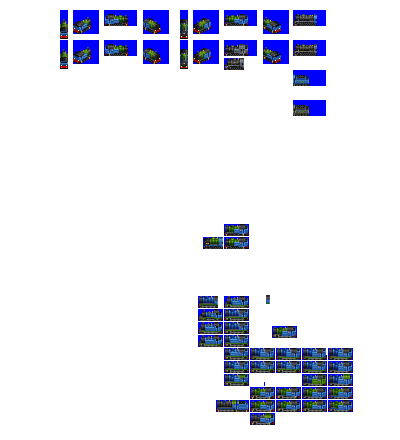
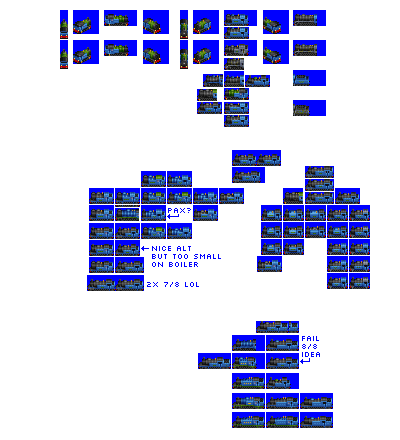
Change: WIP on Yak sprites and stats

diff --git a/src/vehicles/yak.py b/src/vehicles/yak.py
@@ -6,7 +6,7 @@ def main(roster_id):
         roster_id=roster_id,
         id="yak",
         base_numeric_id=11060,
-        name="0-8-0 Yak",
+        name="0-8-2 Yak",
         role="branch_freight",
         role_child_branch_num=-1,
         power_by_power_source={
@@ -21,7 +21,7 @@ def main(roster_id):
         sprites_complete=False,
     )
 
-    consist.add_unit(type=SteamEngineUnit, weight=65, vehicle_length=6, spriterow_num=0)
+    consist.add_unit(type=SteamEngineUnit, weight=70, vehicle_length=6, spriterow_num=0)
 
     # !! tank engine rebuild of the Doister? https://www.lner.info/locos/Q/q1thompson.php
     consist.description = """We ought to do good to others as simply as a horse runs."""
